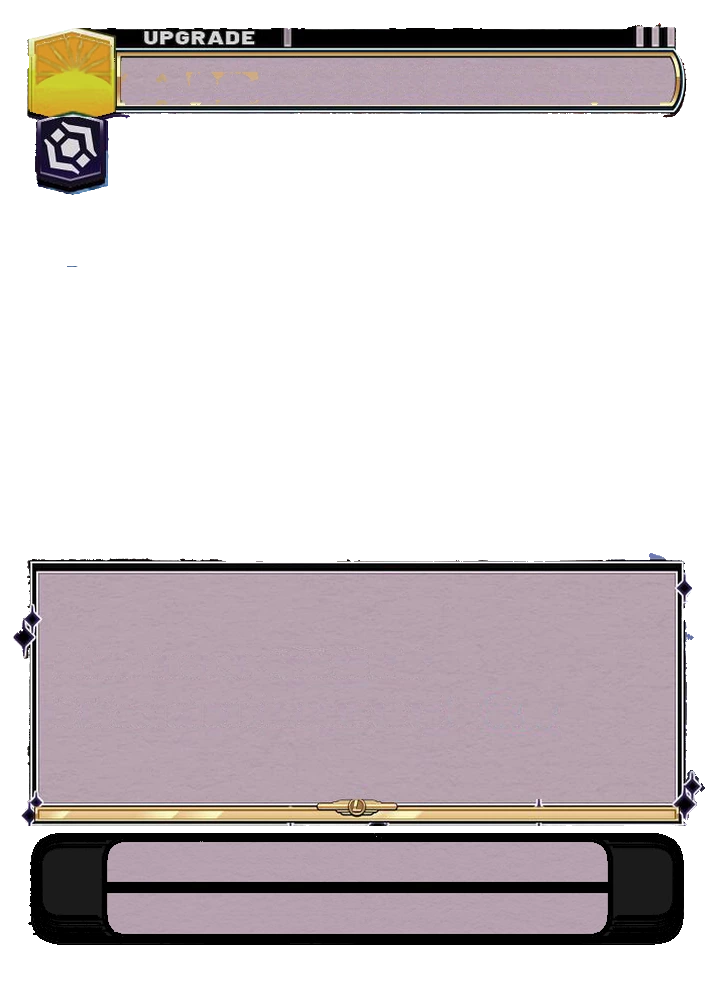
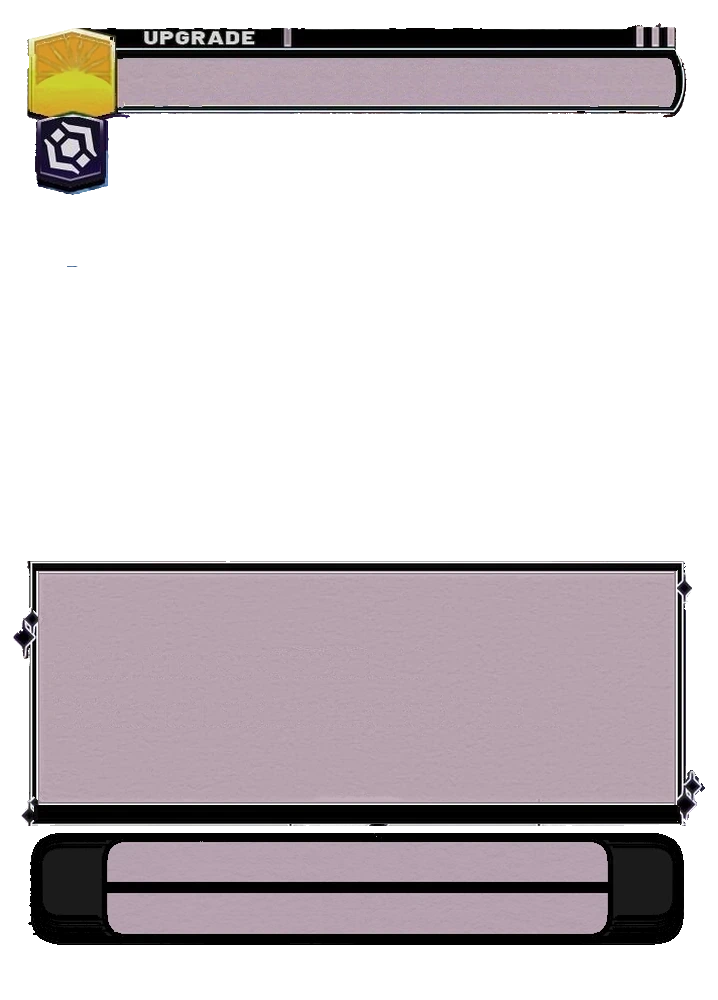
Clean Villainy frames; admin pending counts; Confirm for auto-supported cards
- Villainy upgrade, pilot and fortification frames: no Legends gold, clean text box
- Admin button and Community tab count what waits: cards to review, mail to the Admins
- A card supported automatically waits for Confirm instead of a disabled Support
- Token Upgrade and Credit token frames read by the engine; the queue shows saved text

Changed region(s): [[0.0306, 0.775, 0.9499, 0.837], [0.1532, 0.031, 0.9499, 0.124], [0.9499, 0.62, 0.9805, 0.651]]

diff --git a/src/account.tsx b/src/account.tsx
@@ -14,7 +14,7 @@ import {
   type User,
 } from './api'
 import { CardsTab, DecksTab, defaultFilter, FilterBar, GamesTab, StatsTab, type GameFilter } from './AdminGames'
-import { CommunityTab } from './AdminCommunity'
+import { CommunityTab, useAdminPending, type AdminPending } from './AdminCommunity'
 import { MailTab, NotificationsTab, useUnread, type Unread } from './Messages'
 import { KofiHover, SupporterMark } from './Support'
 import { isSupporter, STEP_CENTS, TIER_NAMES, tierOf } from '../server/tiers.ts'
@@ -485,8 +485,8 @@ const ADMIN_TABS = [
 ] as const
 type AdminTab = (typeof ADMIN_TABS)[number][0]
 
-function AdminModal(props: { session: Session; focus?: number; onClose: () => void }) {
-  const { session, focus, onClose } = props
+function AdminModal(props: { session: Session; focus?: number; pending: AdminPending; onPendingChange: () => void; onClose: () => void }) {
+  const { session, focus, pending, onClose } = props
   const [tab, setTab] = useState<AdminTab>('users')
   const [filter, setFilter] = useState<GameFilter>(defaultFilter)
   return (
@@ -503,6 +503,7 @@ function AdminModal(props: { session: Session; focus?: number; onClose: () => vo
             }}
           >
             {label}
+            {value === 'community' && pending.community > 0 && <span className="tab-count">{pending.community}</span>}
           </a>
         ))}
       </nav>
@@ -512,7 +513,7 @@ function AdminModal(props: { session: Session; focus?: number; onClose: () => vo
       {tab === 'games' && <GamesTab session={session} filter={filter} />}
       {tab === 'decks' && <DecksTab session={session} filter={filter} />}
       {tab === 'cards' && <CardsTab session={session} filter={filter} />}
-      {tab === 'community' && <CommunityTab session={session} />}
+      {tab === 'community' && <CommunityTab session={session} onReviewed={props.onPendingChange} />}
       <div className="account-buttons">
         <button className="button button-primary" type="button" onClick={onClose}>
           Close
@@ -689,6 +690,9 @@ export function AccountBar(props: { localCards: number; localDecks: number; onCo
   const [open, setOpen] = useState<'login' | 'register' | 'settings' | 'notification' | 'mail' | 'admin' | null>(null)
   const { unread, refresh } = useUnread(session, online)
   const unreadTotal = unread.notification + unread.mail
+  // An admin's count on Admin: community cards to review, mail to the Admins unread
+  const { pending, refresh: refreshPending } = useAdminPending(session)
+  const pendingTotal = pending.community + pending.mail
   // The account the Admin panel opens at, when asked from elsewhere on the page
   const [focus, setFocus] = useState<number | undefined>()
   const isAdmin = !!session?.user.isAdmin
@@ -747,12 +751,20 @@ export function AccountBar(props: { localCards: number; localDecks: number; onCo
                 <button
                   className="chip"
                   type="button"
+                  title={
+                    pendingTotal
+                      ? [pending.community && `${pending.community} community card${pending.community === 1 ? '' : 's'} to review`, pending.mail && `${pending.mail} mail to the Admins unread`]
+                          .filter(Boolean)
+                          .join(', ')
+                      : 'Open the Admin panel'
+                  }
                   onClick={() => {
                     setFocus(undefined)
                     setOpen('admin')
                   }}
                 >
                   Admin
+                  {pendingTotal > 0 && <span className="tab-count">{pendingTotal > 99 ? '99+' : pendingTotal}</span>}
                 </button>
               )}
             </>
@@ -804,10 +816,24 @@ export function AccountBar(props: { localCards: number; localDecks: number; onCo
             change(null)
             setOpen(null)
           }}
-          onClose={() => setOpen(null)}
+          onClose={() => {
+            setOpen(null)
+            refreshPending()
+          }}
         />
       )}
-      {open === 'admin' && session && <AdminModal session={session} focus={focus} onClose={() => setOpen(null)} />}
+      {open === 'admin' && session && (
+        <AdminModal
+          session={session}
+          focus={focus}
+          pending={pending}
+          onPendingChange={refreshPending}
+          onClose={() => {
+            setOpen(null)
+            refreshPending()
+          }}
+        />
+      )}
     </div>
   )
 }

diff --git a/src/AdminCommunity.tsx b/src/AdminCommunity.tsx
@@ -48,7 +48,36 @@ function AdminImage(props: { session: Session; id: string }) {
   return src ? <img className="community-queue-image" src={src} alt="" /> : <div className="community-queue-image" />
 }
 
-export function CommunityTab(props: { session: Session }) {
+// What waits for an admin (server/community.js, /admin/pending): community cards waiting or
+// supported automatically and not yet confirmed, and mail written to the Admins not yet opened.
+// Asked as the page opens, every minute, and again after a review.
+export type AdminPending = { community: number; mail: number }
+const PENDING_EVERY = 60 * 1000
+export function useAdminPending(session: Session | null) {
+  const [pending, setPending] = useState<AdminPending>({ community: 0, mail: 0 })
+  const [asked, setAsked] = useState(0)
+  const isAdmin = !!session?.user.isAdmin
+  useEffect(() => {
+    if (!session || !isAdmin) {
+      setPending({ community: 0, mail: 0 })
+      return
+    }
+    let live = true
+    const ask = () =>
+      api<AdminPending>('/api/admin/pending', { token: session.token })
+        .then((found) => live && setPending(found))
+        .catch(() => undefined)
+    ask()
+    const timer = window.setInterval(ask, PENDING_EVERY)
+    return () => {
+      live = false
+      window.clearInterval(timer)
+    }
+  }, [session?.token, isAdmin, asked])
+  return { pending, refresh: () => setAsked((n) => n + 1) }
+}
+
+export function CommunityTab(props: { session: Session; onReviewed?: () => void }) {
   const { session } = props
   const [list, setList] = useState<Submission[] | null>(null)
   const [error, setError] = useState<string | null>(null)
@@ -72,6 +101,7 @@ export function CommunityTab(props: { session: Session }) {
         token: session.token,
       })
       await load()
+      props.onReviewed?.()
     } catch (err) {
       setError((err as Error).message)
     }
@@ -85,12 +115,15 @@ export function CommunityTab(props: { session: Session }) {
     <div className="community-queue">
       {error && <p className="account-error">{error}</p>}
       <p className="account-note">
-        A card the engine plays already (keywords only, or no text) is supported as it is submitted; you may still decline it. For
-        the others, write the script in <code>server/engine/community.ts</code> under its key, restart the server, then Support it here.
+        A card the engine plays already (keywords only, or no text) is supported as it is submitted: it is playable at once, and
+        waits here until you Confirm it (or Decline it). For the others, write the script in{' '}
+        <code>server/engine/community.ts</code> under its key, deploy the server, then Support it here.
       </p>
       {list.map((row) => {
         const id = `${row.key}/${row.version}`
         const playable = row.engine === 'scripted' || row.engine === 'blank'
+        // Supported automatically: playable already, waiting for an admin to confirm it
+        const toConfirm = row.status === 'supported' && row.auto
         return (
           <div key={id} className={`community-queue-row community-${row.status}`}>
             <AdminImage session={session} id={row.image} />
@@ -125,11 +158,17 @@ export function CommunityTab(props: { session: Session }) {
                 <button
                   className="button button-primary"
                   type="button"
-                  disabled={busy === id || row.status === 'supported'}
-                  title={playable ? 'Make this version playable in the Community Deck Builder' : 'The engine does not play all of it yet'}
+                  disabled={busy === id || (row.status === 'supported' && !toConfirm)}
+                  title={
+                    toConfirm
+                      ? 'It is playable already: confirm it, so it no longer waits here'
+                      : playable
+                        ? 'Make this version playable in the Community Deck Builder'
+                        : 'The engine does not play all of it yet'
+                  }
                   onClick={() => review(row, 'supported')}
                 >
-                  Support{playable ? '' : ' anyway'}
+                  {toConfirm ? 'Confirm' : `Support${playable ? '' : ' anyway'}`}
                 </button>
                 <button className="button" type="button" disabled={busy === id || row.status === 'declined'} onClick={() => review(row, 'declined')}>
                   Decline

diff --git a/server/community.js b/server/community.js
@@ -220,12 +220,30 @@ router.get('/admin/community', verifyToken, requireAdmin, async (req, res) => {
           reviewedAt: row.reviewed_at,
           engine: def ? scriptStatus(def) : 'none',
           unplayed: def ? unplayedLines(def) : [],
-          text: def ? [def.text, def.backText].filter(Boolean).join('\n') : '',
+          // The card's text as saved, the engine's card or not (one on a frame it doesn't know)
+          text: [row.data?.text, row.data?.pilotText, row.data?.backText].filter(Boolean).join('\n'),
         }
       }),
     })
   } catch (err) {
     console.error('Community queue error:', err)
+    res.status(500).json({ error: 'Server error' })
+  }
+})
+
+// Admins: what waits for them, the count on the Admin button. Community cards waiting, and those
+// supported automatically not yet confirmed; mail written to the Admins they have not opened.
+router.get('/admin/pending', verifyToken, requireAdmin, async (req, res) => {
+  try {
+    const { rows } = await query(
+      `SELECT
+         (SELECT COUNT(*)::INT FROM ${SCHEMA}.community_cards WHERE status = 'awaiting' OR (status = 'supported' AND auto)) AS community,
+         (SELECT COUNT(*)::INT FROM ${SCHEMA}.messages WHERE user_id = $1 AND to_admins AND read_at IS NULL) AS mail`,
+      [req.user.id],
+    )
+    res.json(rows[0])
+  } catch (err) {
+    console.error('Admin pending error:', err)
     res.status(500).json({ error: 'Server error' })
   }
 })

diff --git a/server/engine/cards.ts b/server/engine/cards.ts
@@ -32,6 +32,11 @@ const typeNames = { unit: 'unit', leader: 'leader', base: 'base', event: 'event'
 // for a unit that can be an upgrade too.
 function frameFacts(frameId: string) {
   const words = frameId.split('-')
+  // A token: the Spice and Credit tokens, and a token upgrade (Experience, Shield, or one a
+  // community card makes, as an Ink token), an upgrade like the built-in ones
+  if (frameId === 'spice-token' || frameId === 'credit-token')
+    return { type: 'token' as const, aspects: [] as Aspect[], arena: 'ground' as Arena, token: true }
+  if (frameId === 'token-upgrade') return { type: 'upgrade' as const, aspects: [] as Aspect[], arena: 'ground' as Arena, token: true }
   const type =
     words[0] === 'spice'
       ? ('token' as const)
